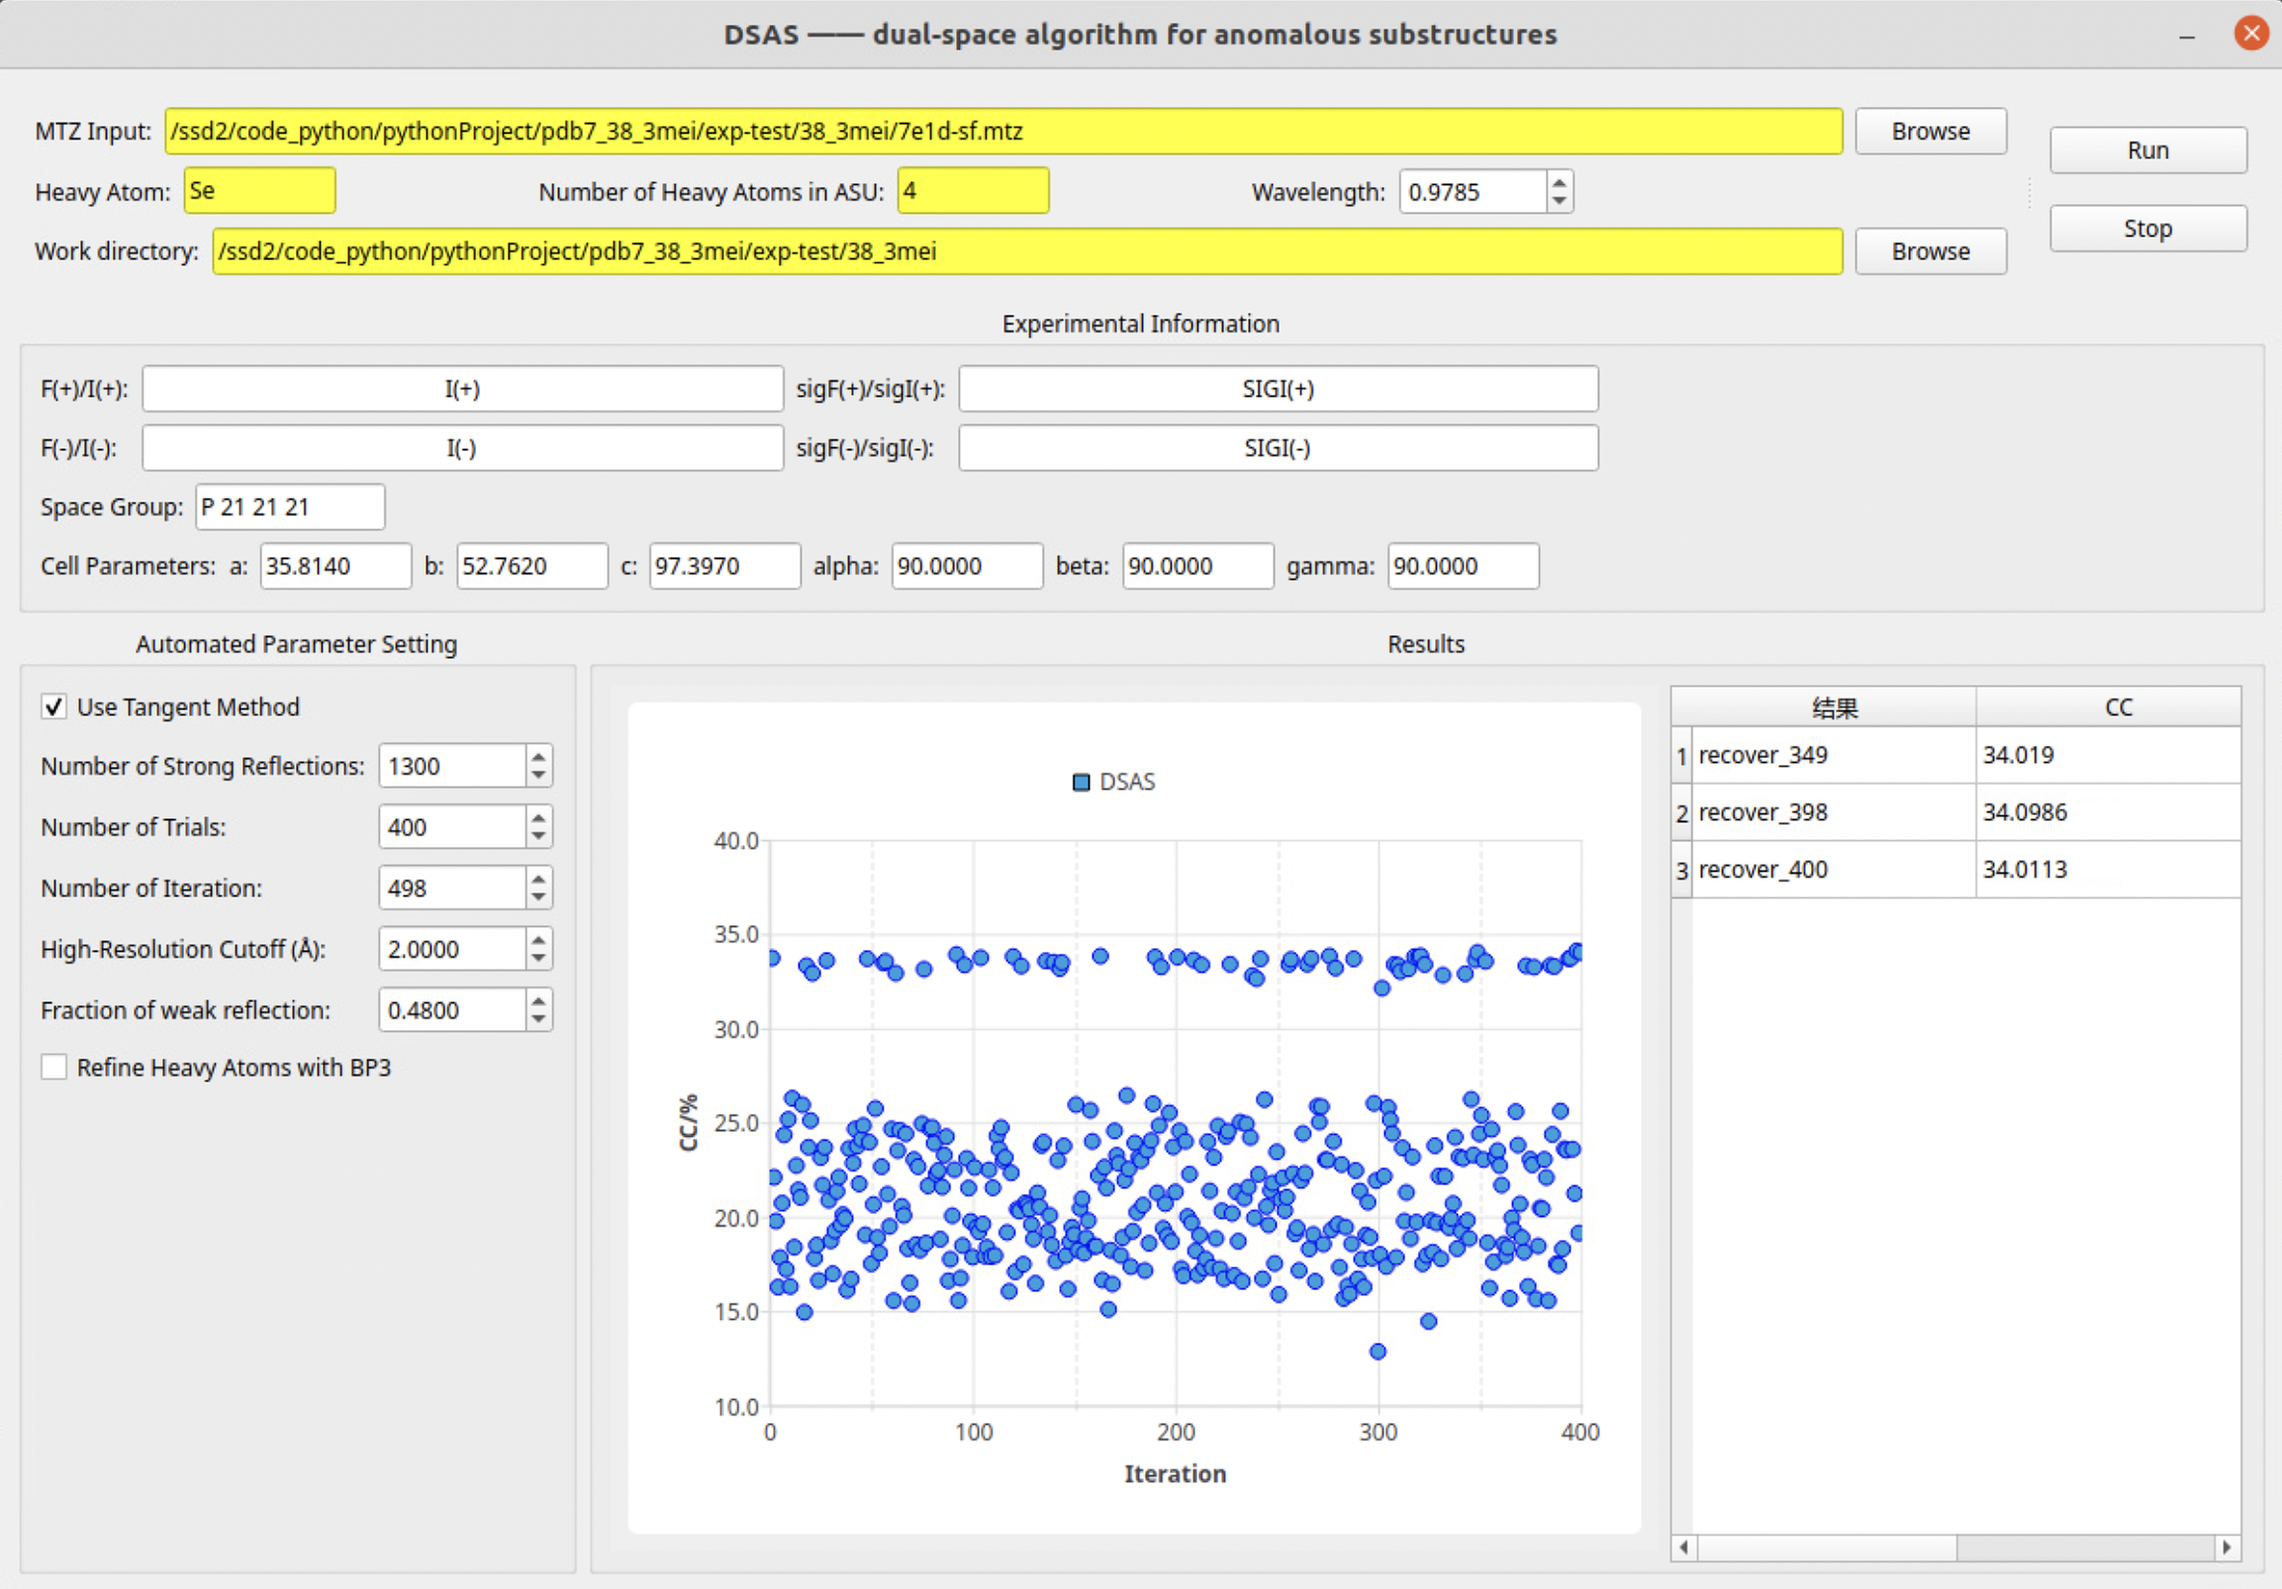
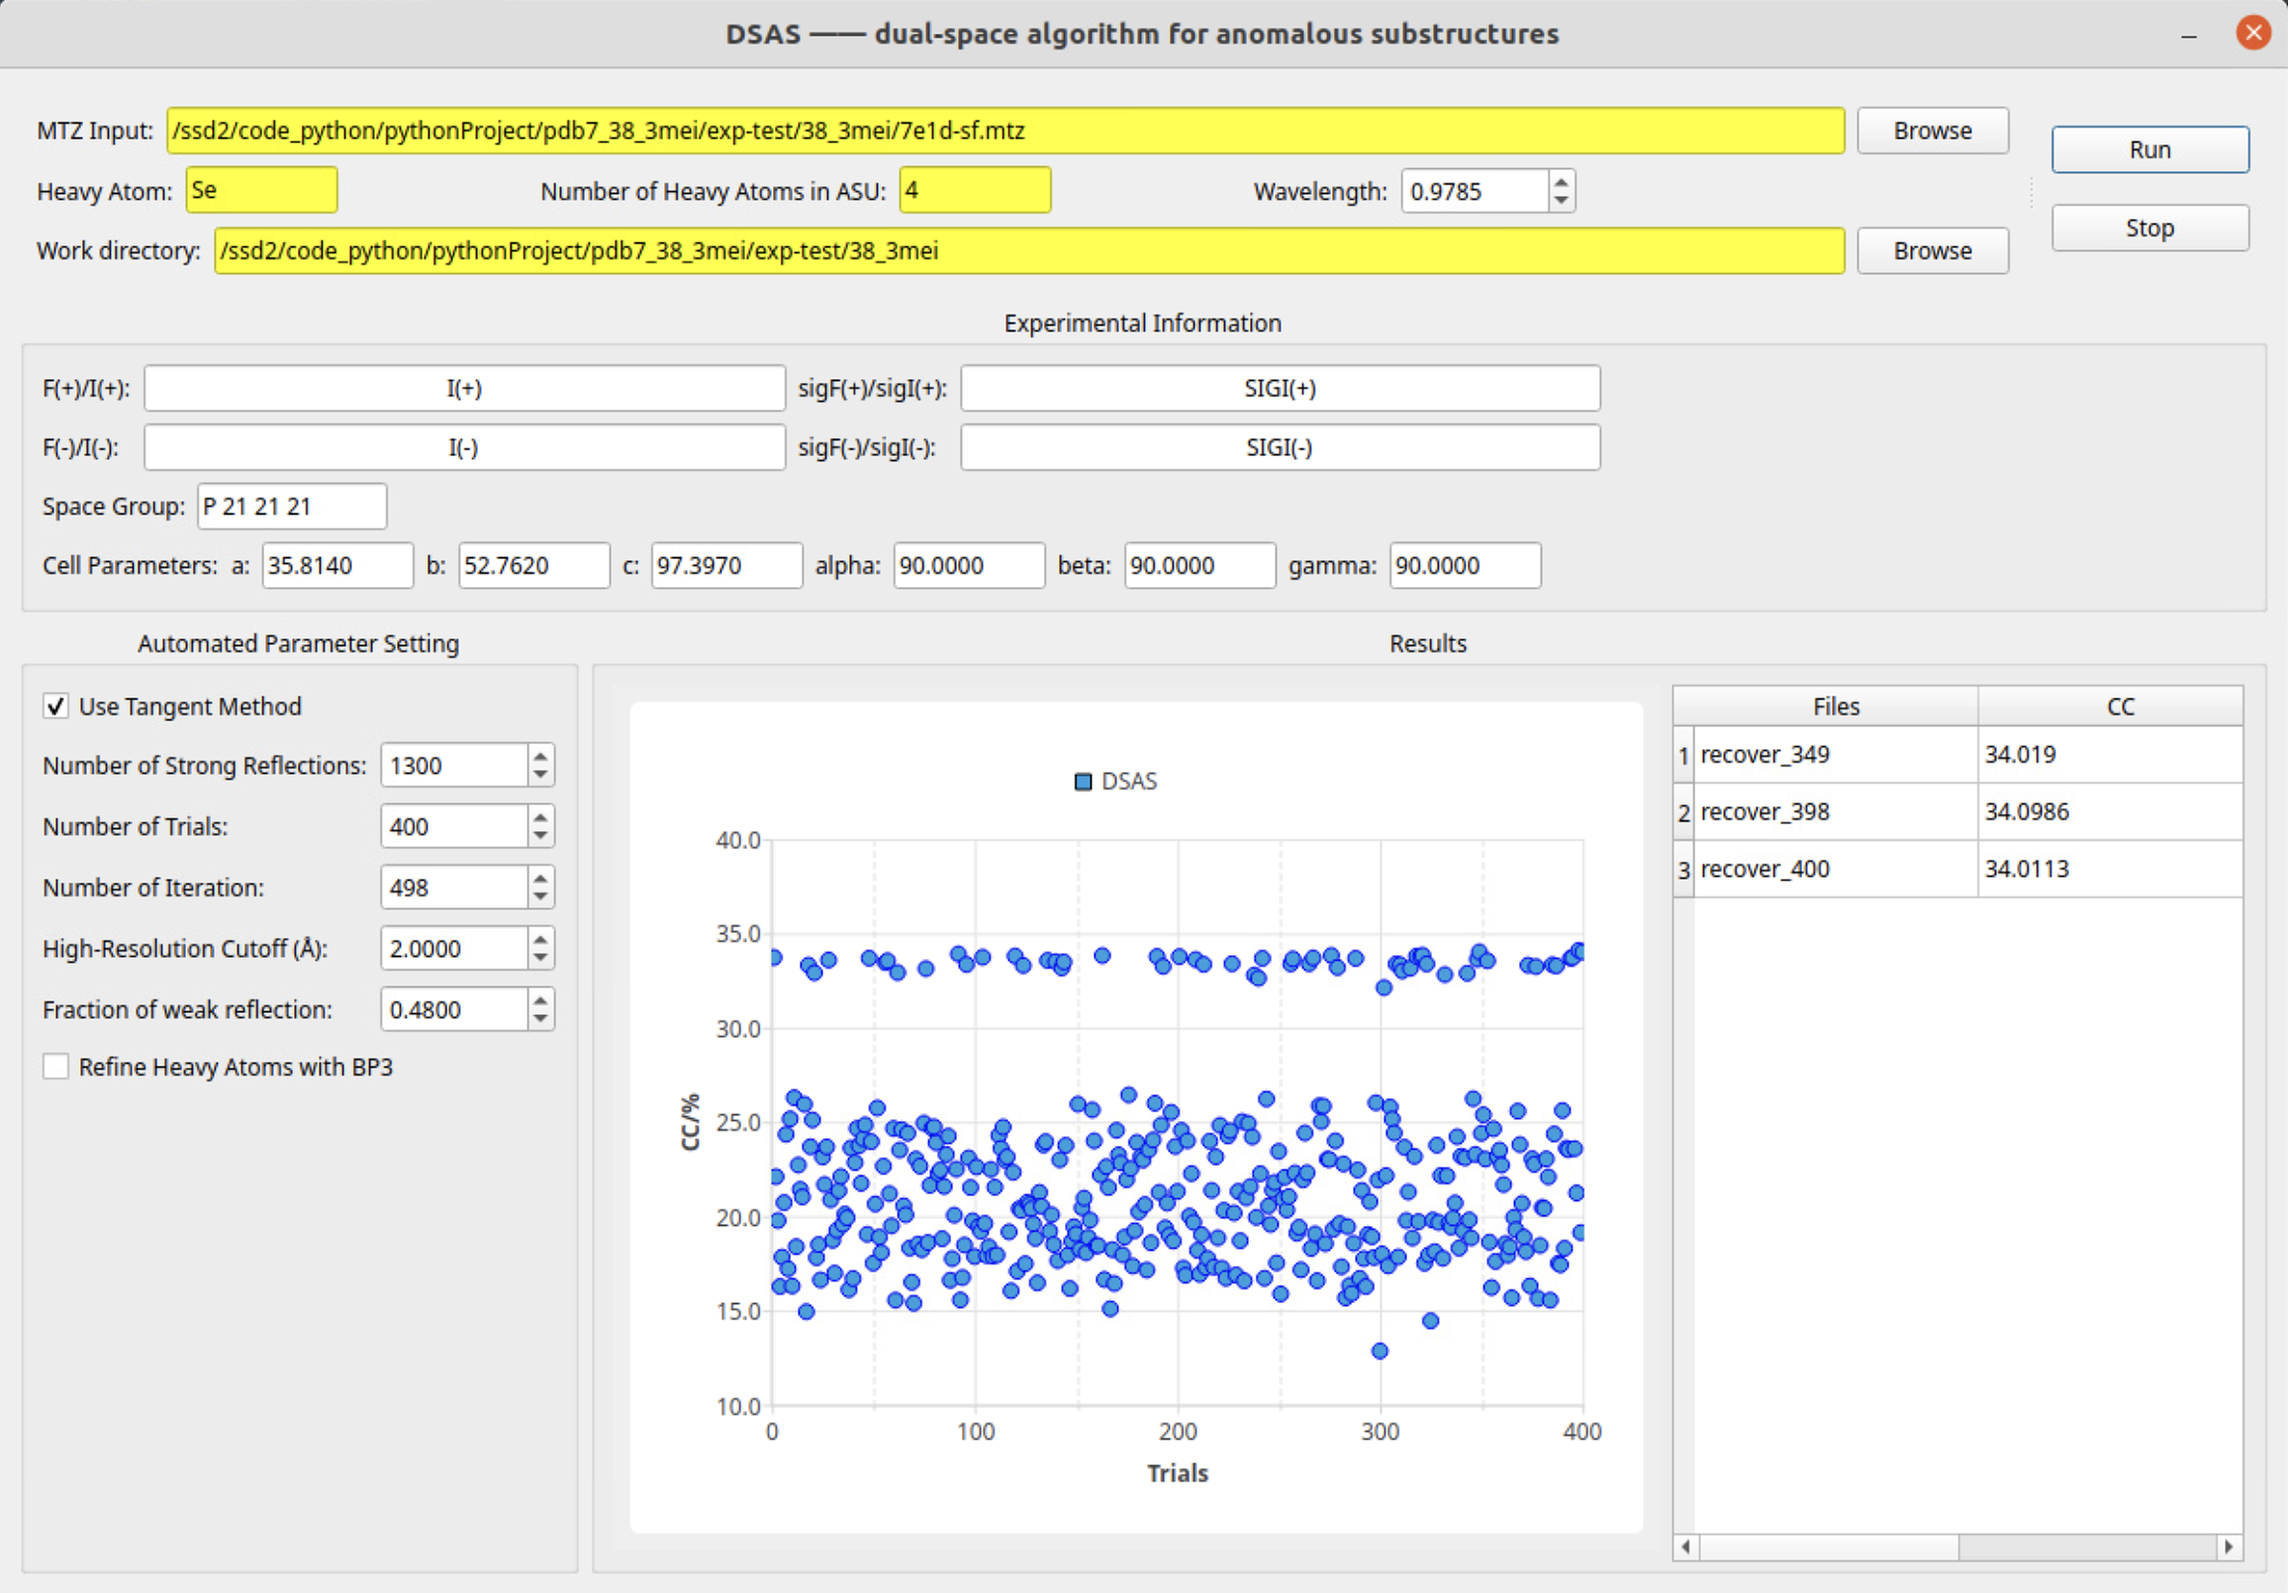
update figure

diff --git a/DSAS.py b/DSAS.py
@@ -377,7 +377,7 @@ class MyApplication(QWidget):
         self.axis_x.setLabelFormat("%d") #横轴值设为整数
         self.axis_x.setMinorTickCount(1) #添加子刻表线
 
-        self.axis_x.setTitleText("Iteration")
+        self.axis_x.setTitleText("Trials")
         self.chart.addAxis(self.axis_x, Qt.AlignBottom)  # 将横坐标轴添加到图表中
 
         # 创建纵坐标轴
@@ -408,7 +408,7 @@ class MyApplication(QWidget):
         self.result_table.setColumnWidth(1, 149)
         self.result_table.setFixedWidth(300)
         self.result_table.setFixedHeight(460)
-        self.result_table.setHorizontalHeaderLabels(["结果", "CC"])
+        self.result_table.setHorizontalHeaderLabels(["Files", "CC"])
 
         self.workerThread.result.connect(self.updateResult)
 
